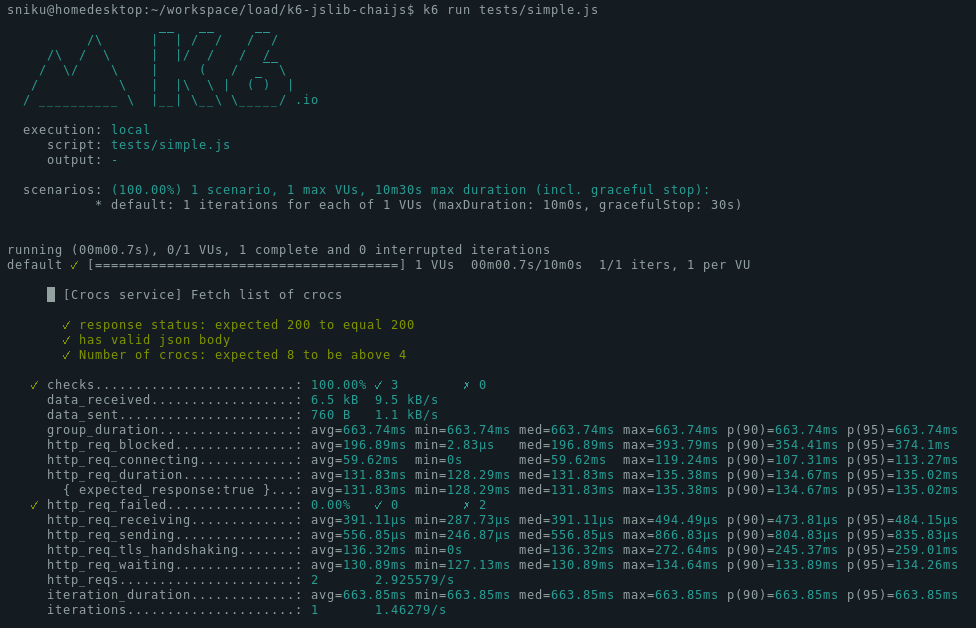
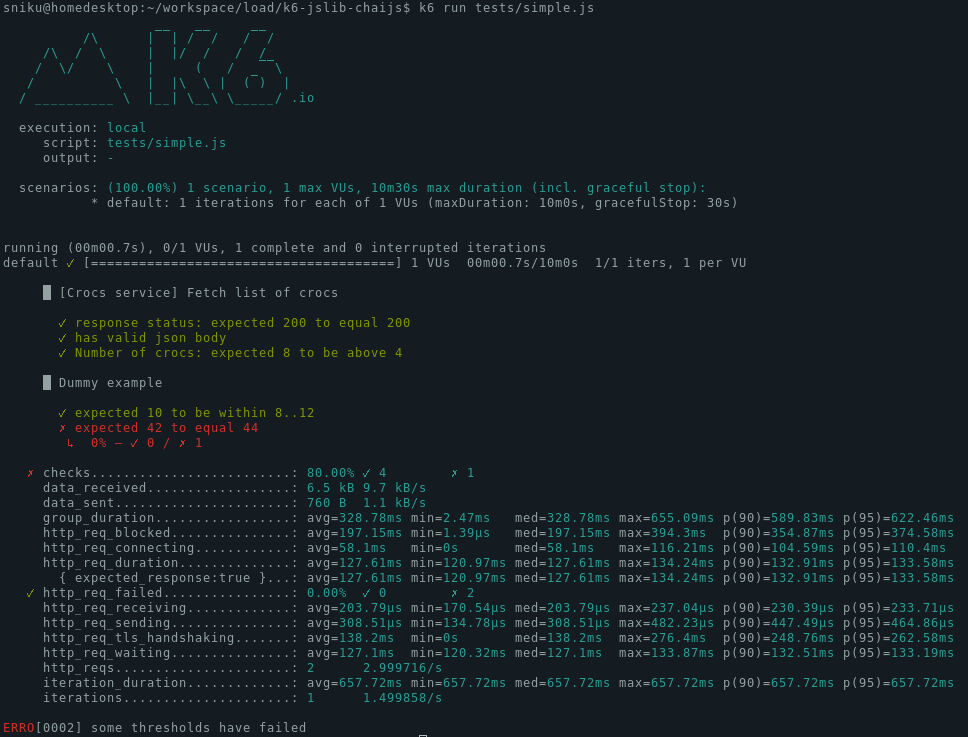
better example in README

diff --git a/tests/simple.js b/tests/simple.js
@@ -1,6 +1,5 @@
-import { describe, expect, chai } from '../build/k6-chaijs.min.js';
-import { Httpx, Get } from 'https://jslib.k6.io/httpx/0.0.4/index.js';
-import { randomString } from 'https://jslib.k6.io/k6-utils/1.0.0/index.js';
+import http from 'k6/http';
+import { describe, expect } from '../build/k6-chaijs.min.js';
 
 export let options = {
   thresholds: {
@@ -9,16 +8,20 @@ export let options = {
   },
 };
 
-let session = new Httpx();
-session.setBaseUrl('https://test-api.k6.io');
-
 export default function testSuite() {
 
   describe('[Crocs service] Fetch list of crocs', () => {
-    let response = session.get('/public/crocodiles');
+    let response = http.get('https://test-api.k6.io/public/crocodiles');
 
     expect(response.status, "response status").to.equal(200)
     expect(response).to.have.validJsonBody()
     expect(response.json().length, "Number of crocs").to.be.above(4)
   })
+
+  describe('Dummy example', () => {
+    expect(10).to.be.within(8,12); // OK
+    expect(42).to.equal(44); // fails
+    expect(true).to.be.ok; // doesn't run because the previous assertion failed.
+  });
+
 }

diff --git a/README.md b/README.md
@@ -9,9 +9,8 @@ Download from: https://jslib.k6.io/
 Example
 
 ```js
-import { describe, expect, chai } from '../build/k6-chaijs.min.js';
-import { Httpx, Get } from 'https://jslib.k6.io/httpx/0.0.4/index.js';
-import { randomString } from 'https://jslib.k6.io/k6-utils/1.0.0/index.js';
+import http from 'k6/http';
+import { describe, expect } from '../build/k6-chaijs.min.js';
 
 export let options = {
   thresholds: {
@@ -20,18 +19,22 @@ export let options = {
   },
 };
 
-let session = new Httpx();
-session.setBaseUrl('https://test-api.k6.io');
-
 export default function testSuite() {
 
   describe('[Crocs service] Fetch list of crocs', () => {
-    let response = session.get('/public/crocodiles');
+    let response = http.get('https://test-api.k6.io/public/crocodiles');
 
     expect(response.status, "response status").to.equal(200)
     expect(response).to.have.validJsonBody()
     expect(response.json().length, "Number of crocs").to.be.above(4)
   })
+
+  describe('Dummy example', () => {
+    expect(10).to.be.within(8,12); // OK
+    expect(42).to.equal(44); // fails
+    expect(true).to.be.ok; // doesn't run because the previous assertion failed.
+  });
+
 }
 
 ```
